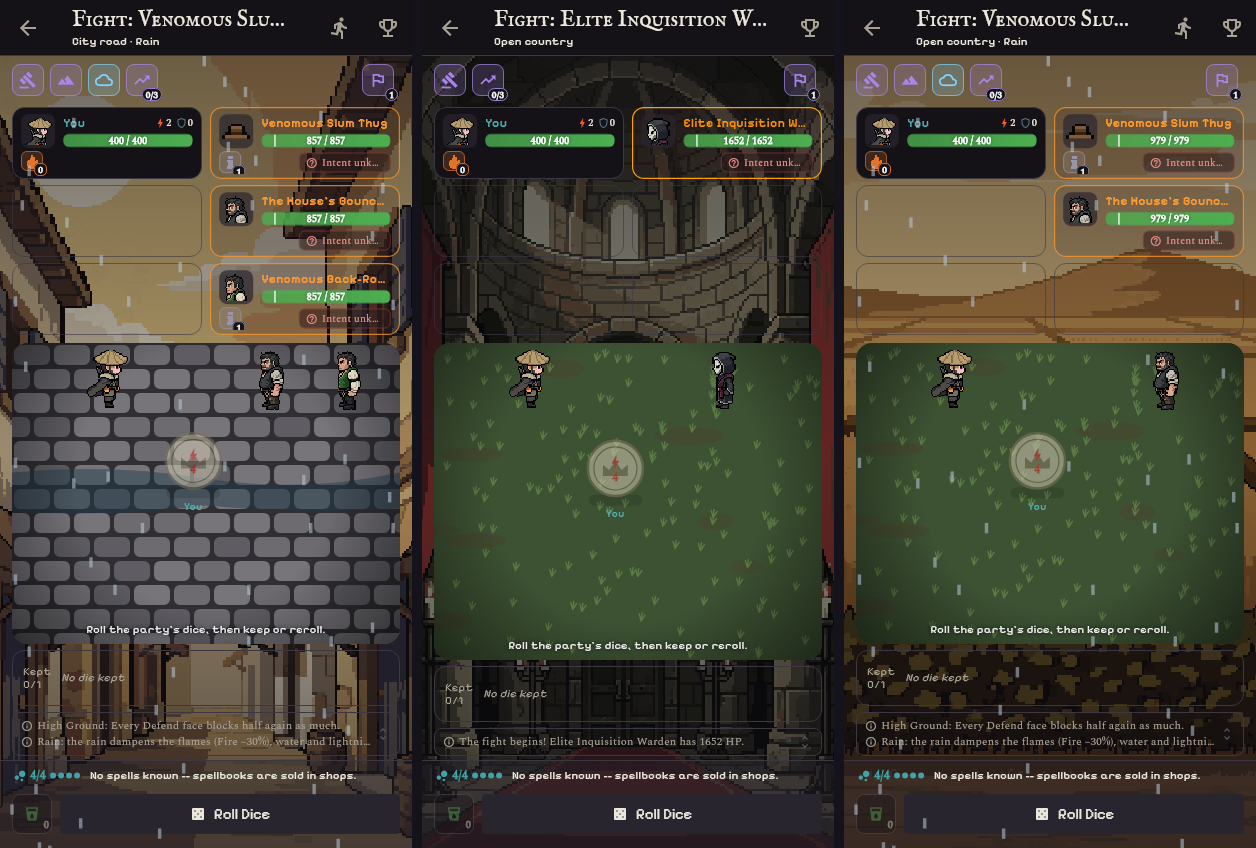
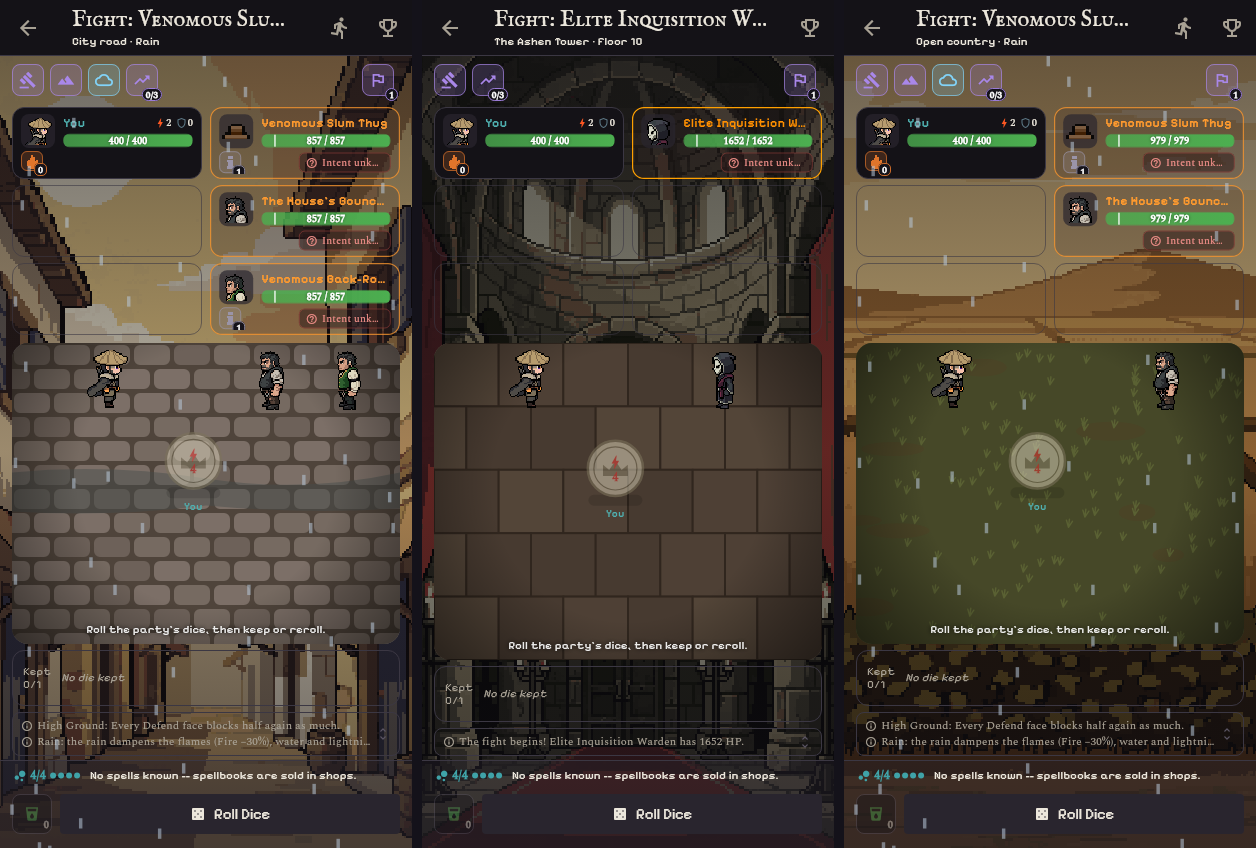
Tower fights wear the Tower (stone board, floor in the ground line); the board leans towards its plate's ground
Claude-Session: https://claude.ai/code/session_019ETFw2Y7wpHSXWG5mmACty

diff --git a/lib/widgets/fight_plates.dart b/lib/widgets/fight_plates.dart
@@ -9,7 +9,7 @@ import 'dart:async';
 import 'dart:ui' as ui;
 
 import 'package:flutter/foundation.dart';
-import 'package:flutter/widgets.dart' show BuildContext, InheritedWidget;
+import 'package:flutter/widgets.dart' show BuildContext, Color, InheritedWidget;
 import 'package:flutter/services.dart';
 
 import '../combat/field_anomaly.dart' show FightStage;
@@ -56,24 +56,35 @@ String fightPlateAsset(FightStage stage, String? settlementId) {
   return '$_dir/$stem.png';
 }
 
-/// A picture the fight is told to wear whatever its stage (the Tower's boss
-/// and warden floors): put above the FightScreen, it wins over the stage's.
+/// How a fight is dressed whatever its stage (the Tower's): the picture it
+/// wears ([asset]), the stage whose ground skin the dice board takes
+/// ([boardStage]) and the floor named in the ground line. Put above the
+/// FightScreen. A look only: the stage the rules read is not changed.
 class FightPlateOverride extends InheritedWidget {
-  const FightPlateOverride(
-      {super.key, required this.asset, required super.child});
+  const FightPlateOverride({
+    super.key,
+    required this.asset,
+    required this.boardStage,
+    required this.floor,
+    required super.child,
+  });
 
   final String asset;
+  final FightStage boardStage;
+  final int floor;
 
-  static String? of(BuildContext context) =>
-      context.dependOnInheritedWidgetOfExactType<FightPlateOverride>()?.asset;
+  static FightPlateOverride? maybeOf(BuildContext context) =>
+      context.dependOnInheritedWidgetOfExactType<FightPlateOverride>();
 
   @override
-  bool updateShouldNotify(FightPlateOverride old) => old.asset != asset;
+  bool updateShouldNotify(FightPlateOverride old) =>
+      old.asset != asset || old.boardStage != boardStage || old.floor != floor;
 }
 
 /// The pictures, decoded once. [loaded] changes when one arrives.
 abstract final class FightPlateImages {
   static final Map<String, ui.Image> _images = {};
+  static final Map<String, Color> _tints = {};
   static final Set<String> _loading = {};
   static final ValueNotifier<int> loaded = ValueNotifier(0);
 
@@ -88,15 +99,41 @@ abstract final class FightPlateImages {
     try {
       final data = await rootBundle.load(asset);
       final codec = await ui.instantiateImageCodec(data.buffer.asUint8List());
-      _images[asset] = (await codec.getNextFrame()).image;
+      final image = (await codec.getNextFrame()).image;
+      final tint = await _groundTintOf(image);
+      if (tint != null) _tints[asset] = tint;
+      _images[asset] = image;
       loaded.value++;
     } catch (_) {
       // A missing file leaves the stage to its code painter.
     }
   }
 
+  /// The colour of [asset]'s ground (the mean of its lowest third), for the
+  /// dice board to lean towards; null until it is loaded.
+  static Color? tintOf(String asset) => _tints[asset];
+
+  static Future<Color?> _groundTintOf(ui.Image image) async {
+    final data = await image.toByteData(format: ui.ImageByteFormat.rawRgba);
+    if (data == null) return null;
+    final from = image.height * 2 ~/ 3;
+    var r = 0, g = 0, b = 0, n = 0;
+    for (var y = from; y < image.height; y++) {
+      for (var x = 0; x < image.width; x++) {
+        final i = (y * image.width + x) * 4;
+        r += data.getUint8(i);
+        g += data.getUint8(i + 1);
+        b += data.getUint8(i + 2);
+        n++;
+      }
+    }
+    if (n == 0) return null;
+    return Color.fromARGB(255, r ~/ n, g ~/ n, b ~/ n);
+  }
+
   static void reset() {
     _images.clear();
+    _tints.clear();
     _loading.clear();
   }
 }

diff --git a/lib/widgets/fight_board.dart b/lib/widgets/fight_board.dart
@@ -8,6 +8,7 @@ import 'package:flutter/material.dart';
 
 import '../combat/field_anomaly.dart' show FightStage;
 import '../theme/palette.dart';
+import 'fight_plates.dart' show FightPlateImages;
 
 /// The board's base colour for [stage] (also the colour of its edge glow).
 Color _fightBoardBase(FightStage stage) => switch (stage) {
@@ -37,9 +38,13 @@ Color _fightBoardBase(FightStage stage) => switch (stage) {
 /// Paints the board's surface for [stage]: the same picture every time (a
 /// fixed seed), never animated.
 class _FightBoardPainter extends CustomPainter {
-  const _FightBoardPainter(this.stage);
+  const _FightBoardPainter(this.stage, [this.tint]);
 
   final FightStage stage;
+
+  /// The ground colour of the picture behind the board: the surface leans
+  /// towards it, so the board and the picture are one place.
+  final Color? tint;
 
   @override
   void paint(Canvas canvas, Size size) {
@@ -424,6 +429,11 @@ class _FightBoardPainter extends CustomPainter {
               fill(Colors.white, 0.75));
         }
     }
+    final lean = tint;
+    if (lean != null) {
+      canvas.drawRect(Rect.fromLTWH(0, 0, w, h),
+          Paint()..color = lean.withValues(alpha: 0.38));
+    }
     // The edge falls into shadow, so the dice stand out in the middle.
     canvas.drawRect(
       Rect.fromLTWH(0, 0, w, h),
@@ -438,7 +448,8 @@ class _FightBoardPainter extends CustomPainter {
   }
 
   @override
-  bool shouldRepaint(_FightBoardPainter old) => old.stage != stage;
+  bool shouldRepaint(_FightBoardPainter old) =>
+      old.stage != stage || old.tint != tint;
 }
 
 /// The board surface for [stage], with [child] (the dice) on it. Rounded and
@@ -446,9 +457,17 @@ class _FightBoardPainter extends CustomPainter {
 /// outside it.
 class FightBoardSurface extends StatelessWidget {
   const FightBoardSurface(
-      {super.key, required this.stage, required this.child, this.event});
+      {super.key,
+      required this.stage,
+      required this.child,
+      this.event,
+      this.plate});
 
   final FightStage stage;
+
+  /// The picture behind the fight (fight_plates.dart): the surface leans
+  /// towards its ground colour.
+  final String? plate;
   final Widget child;
 
   /// What breaks over the board (an anomaly), drawn on the skin and under
@@ -468,9 +487,13 @@ class FightBoardSurface extends StatelessWidget {
           fit: StackFit.expand,
           children: [
             RepaintBoundary(
-              child: CustomPaint(
-                key: const Key('fight_board_skin'),
-                painter: _FightBoardPainter(stage),
+              child: ValueListenableBuilder<int>(
+                valueListenable: FightPlateImages.loaded,
+                builder: (context, _, __) => CustomPaint(
+                  key: const Key('fight_board_skin'),
+                  painter: _FightBoardPainter(stage,
+                      plate == null ? null : FightPlateImages.tintOf(plate!)),
+                ),
               ),
             ),
             if (event != null) Positioned.fill(child: event!),

diff --git a/lib/screens/fight/fight_ground.dart b/lib/screens/fight/fight_ground.dart
@@ -333,6 +333,22 @@ extension _FightGround on _FightScreenState {
 
   // --- On screen ----------------------------------------------------------------
 
+  /// The picture behind the fight: the Tower's when it dresses the fight,
+  /// else the stage's at the fight's place (fightPlaceOf).
+  String _plateHere() =>
+      FightPlateOverride.maybeOf(context)?.asset ??
+      fightPlateAsset(
+          _stage,
+          ref
+              .read(geographyProvider)
+              .locationOf(fightPlaceOf(widget.modifiers, _placeIdHere()))
+              ?.id);
+
+  /// The stage whose ground skin the dice board wears: the stage's own, the
+  /// Tower's stone when it dresses the fight. A look only.
+  FightStage _boardStage() =>
+      FightPlateOverride.maybeOf(context)?.boardStage ?? _stage;
+
   /// The ground behind the battle, under a veil that keeps the cards and
   /// the log readable in either theme.
   Widget _buildBackdrop({double veil = 0.4}) {
@@ -346,14 +362,7 @@ extension _FightGround on _FightScreenState {
         FightBackdrop(
           key: const Key('fight_backdrop'),
           stage: _stage,
-          plate: FightPlateOverride.of(context) ??
-              fightPlateAsset(
-                  _stage,
-                  ref
-                      .read(geographyProvider)
-                      .locationOf(
-                          fightPlaceOf(widget.modifiers, _placeIdHere()))
-                      ?.id),
+          plate: _plateHere(),
           light: lightLevel(_light),
           weather: false,
           events: false,
@@ -478,6 +487,13 @@ extension _FightGround on _FightScreenState {
 
   /// The fight's title with the ground under it (its stage and the day's
   /// sky), for the app bar: it adds no height to the setup screen.
+  String _groundName(AppLanguage lang) {
+    final tower = FightPlateOverride.maybeOf(context);
+    return tower == null
+        ? trFor(lang, 'stage_${_stage.name}')
+        : trFor(lang, 'tower_fight_ground').replaceAll('{n}', '${tower.floor}');
+  }
+
   Widget _buildTitle() {
     final lang = ref.watch(appLanguageProvider);
     final sky = _sky.kind == WeatherKind.clear
@@ -489,7 +505,7 @@ extension _FightGround on _FightScreenState {
       children: [
         Text('${tr(ref, 'fight_prefix')}: ${_battleTitle()}'),
         Text(
-          '${trFor(lang, 'stage_${_stage.name}')}$sky',
+          '${_groundName(lang)}$sky',
           key: const Key('fight_ground_strip'),
           style: Theme.of(context).textTheme.labelSmall,
         ),

diff --git a/lib/screens/tower/tower_fight_launcher.dart b/lib/screens/tower/tower_fight_launcher.dart
@@ -5,6 +5,7 @@
 import 'package:flutter/material.dart';
 import 'package:flutter_riverpod/flutter_riverpod.dart';
 
+import '../../combat/field_anomaly.dart' show FightStage;
 import '../../data/tower/tower_hero.dart';
 import '../../data/tower/tower_run.dart';
 import '../../gamedata/db_schema.dart';
@@ -13,7 +14,8 @@ import '../../providers/combat_active_provider.dart';
 import '../../providers/tower_fight_session.dart';
 import '../fight_screen.dart';
 import '../../widgets/fight_plates.dart' show FightPlateOverride;
-import 'tower_backdrop.dart' show towerFloorPlate;
+import 'tower_backdrop.dart'
+    show towerBackdropAsset, towerBandOf, towerFloorPlate;
 import 'tower_providers.dart';
 
 /// Plays [run]'s floor and says how it ended; null when it was not fought (a
@@ -49,11 +51,15 @@ Future<TowerFightResult?> towerFightFor(
         },
         modifiers: floor.modifiersFor(run.professionId),
       ));
-      // A warden's or a boss's floor fights in front of its own picture.
-      final plate = towerFloorPlate(run.floor);
-      return plate == null
-          ? screen
-          : FightPlateOverride(asset: plate, child: screen);
+      // The Tower's fights wear the Tower: a warden's or a boss's floor its
+      // own picture, the others their band's, the hall's stone under the dice
+      // and the floor named in the ground line (looks only).
+      return FightPlateOverride(
+          asset: towerFloorPlate(run.floor) ??
+              towerBackdropAsset(towerBandOf(run.floor)),
+          boardStage: FightStage.hall,
+          floor: run.floor,
+          child: screen);
     },
   ));
   ref.read(combatActiveProvider.notifier).state = false;

diff --git a/lib/l10n/app_strings.dart b/lib/l10n/app_strings.dart
@@ -1373,6 +1373,11 @@ const Map<String, Map<AppLanguage, String>> _strings = {
     AppLanguage.en: 'Thirty floors. One way up.',
     AppLanguage.fr: 'Trente étages. Un seul chemin.',
   },
+  // The fight's ground line in the Tower (instead of its stage's name).
+  'tower_fight_ground': {
+    AppLanguage.en: 'The Ashen Tower · floor {n}',
+    AppLanguage.fr: 'La Tour de Cendre · étage {n}',
+  },
   'tower_floor_of': {
     AppLanguage.en: 'Floor {n} of 30',
     AppLanguage.fr: 'Étage {n} sur 30',

diff --git a/test/ux_fight_plates_test.dart b/test/ux_fight_plates_test.dart
@@ -69,6 +69,9 @@ void main() {
     });
     await tester.pump();
     expect(FightPlateImages.of(asset), isNotNull);
+    // The board leans towards the picture's ground: a colour, not black.
+    expect(FightPlateImages.tintOf(asset), isNotNull);
+    expect(FightPlateImages.tintOf(asset)!.toARGB32(), isNot(0xFF000000));
     expect(tester.takeException(), isNull);
   });
 }

diff --git a/lib/screens/fight/fight_board_view.dart b/lib/screens/fight/fight_board_view.dart
@@ -649,7 +649,8 @@ extension _FightBoardView on _FightScreenState {
       children: [
         Expanded(
           child: FightBoardSurface(
-            stage: _stage,
+            stage: _boardStage(),
+            plate: _plateHere(),
             event: _buildBoardEvent(),
             child: LayoutBuilder(
               builder: (context, box) {

diff --git a/CHANGELOG.md b/CHANGELOG.md
@@ -10,7 +10,7 @@ isn't reconstructable from git history alone.
 
 ## [1.921.0+957]
 
-- Fight and Tower backgrounds: Art's PixelLab pictures. Every fight stage (fields, dunes, salt flats, waves, ash, terraces, cliffs, reeds, snow, glass, hall, city road, ship deck, ruins, woods, ford, burnt fields, oasis, caravan road, quay, pass) now draws its picture, cover-fit with hard pixels, behind the battle in place of the painted stage; the day's weather, the anomalies, the night veil and the screen veil stay over it (a stronger cream veil in the light theme so names and cards read). A city road has a picture per town: Alster's, Saltmouth's, the grey frost of the Reliquary and the Ashen Quarter, Candlehold's, chosen by the fight's place (Core's `fightPlaceOf`). The Tower's warden floors (5, 15, 25) and boss floors (10, 20, 30) have their own picture on the floor screen and in the fight, and the end of a run shows the victory or the defeat picture. Pictures: `docs/ux-shots/fight-plates/`.
+- Fight and Tower backgrounds: Art's PixelLab pictures. Every fight stage (fields, dunes, salt flats, waves, ash, terraces, cliffs, reeds, snow, glass, hall, city road, ship deck, ruins, woods, ford, burnt fields, oasis, caravan road, quay, pass) now draws its picture, cover-fit with hard pixels, behind the battle in place of the painted stage; the day's weather, the anomalies, the night veil and the screen veil stay over it (a stronger cream veil in the light theme so names and cards read). A city road has a picture per town: Alster's, Saltmouth's, the grey frost of the Reliquary and the Ashen Quarter, Candlehold's, chosen by the fight's place (Core's `fightPlaceOf`). The Tower's warden floors (5, 15, 25) and boss floors (10, 20, 30) have their own picture on the floor screen and in the fight, and the end of a run shows the victory or the defeat picture. The dice board takes the ground of its picture (a tint from the lowest third of the plate, so Saltmouth's sun-bleached street has a sandy board and the ochre fields an olive one), and a Tower fight wears the Tower: its floor's picture (a band's for an ordinary floor), the hall's stone under the dice and "The Ashen Tower · floor N" in the ground line instead of "Open country" (looks only: the stage the rules read is unchanged). Pictures: `docs/ux-shots/fight-plates/`.
 
 ## [1.920.0+956]
 
